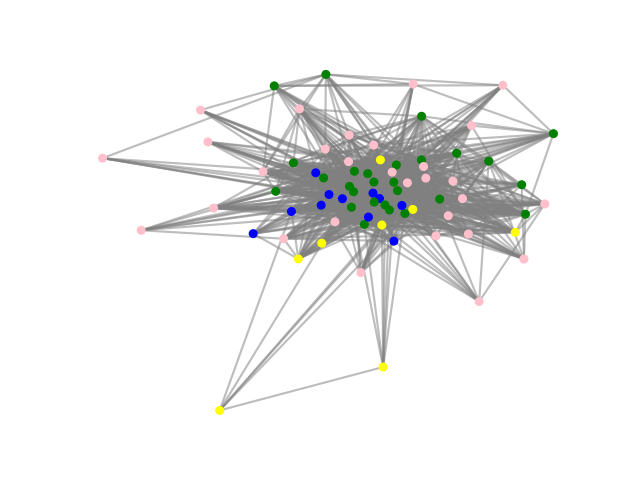
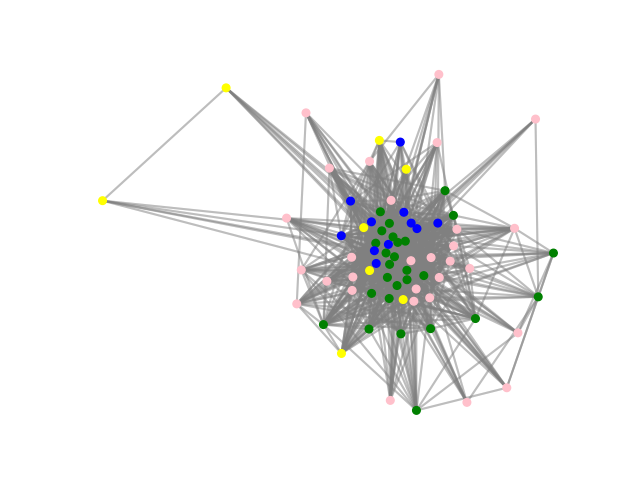
part of final run

Changed region(s): [[0.1562, 0.125, 0.875, 0.875], [0.4688, 0.7812, 0.5625, 0.8125]]

diff --git a/src/pathpyG/visualisations/Project_JS/Evaluation.py b/src/pathpyG/visualisations/Project_JS/Evaluation.py
@@ -255,7 +255,7 @@ style['edge_opacity'] = 0.3
 
 
 ###################################### Synthetic Graph ######################################################
-
+'''
 FILENAME_PLOT = "src/pathpyG/visualisations/Project_JS/evaluation/plots/synthetic_graph/synthetic_graph_"
 DELTA = 1
 
@@ -483,16 +483,16 @@ with open(FILENAME_METRIC, 'a') as file:
 
 print("Dataset finished.")
 
-
+'''
 ###################################### Office ######################################################
 
 FILENAME_PLOT = "src/pathpyG/visualisations/Project_JS/evaluation/plots/office/office_"
 DELTA = 50
 
 # load graph
-office_graph = pp.io.read_csv_temporal_graph('src/pathpyG/visualisations/Project_JS/graphs/office/network/edges.csv', is_undirected=True, timestamp_format='%S')
+office_graph = pp.io.read_csv_temporal_graph('src/pathpyG/visualisations/Project_JS/graphs/Office/network/edges.csv', is_undirected=True, timestamp_format='%S')
 # load metadata
-meta_data = pd.read_csv("src/pathpyG/visualisations/Project_JS/graphs/office/network/nodes.csv")
+meta_data = pd.read_csv("src/pathpyG/visualisations/Project_JS/graphs/Office/network/nodes.csv")
 
 # get colors of nodes
 colors = {}
